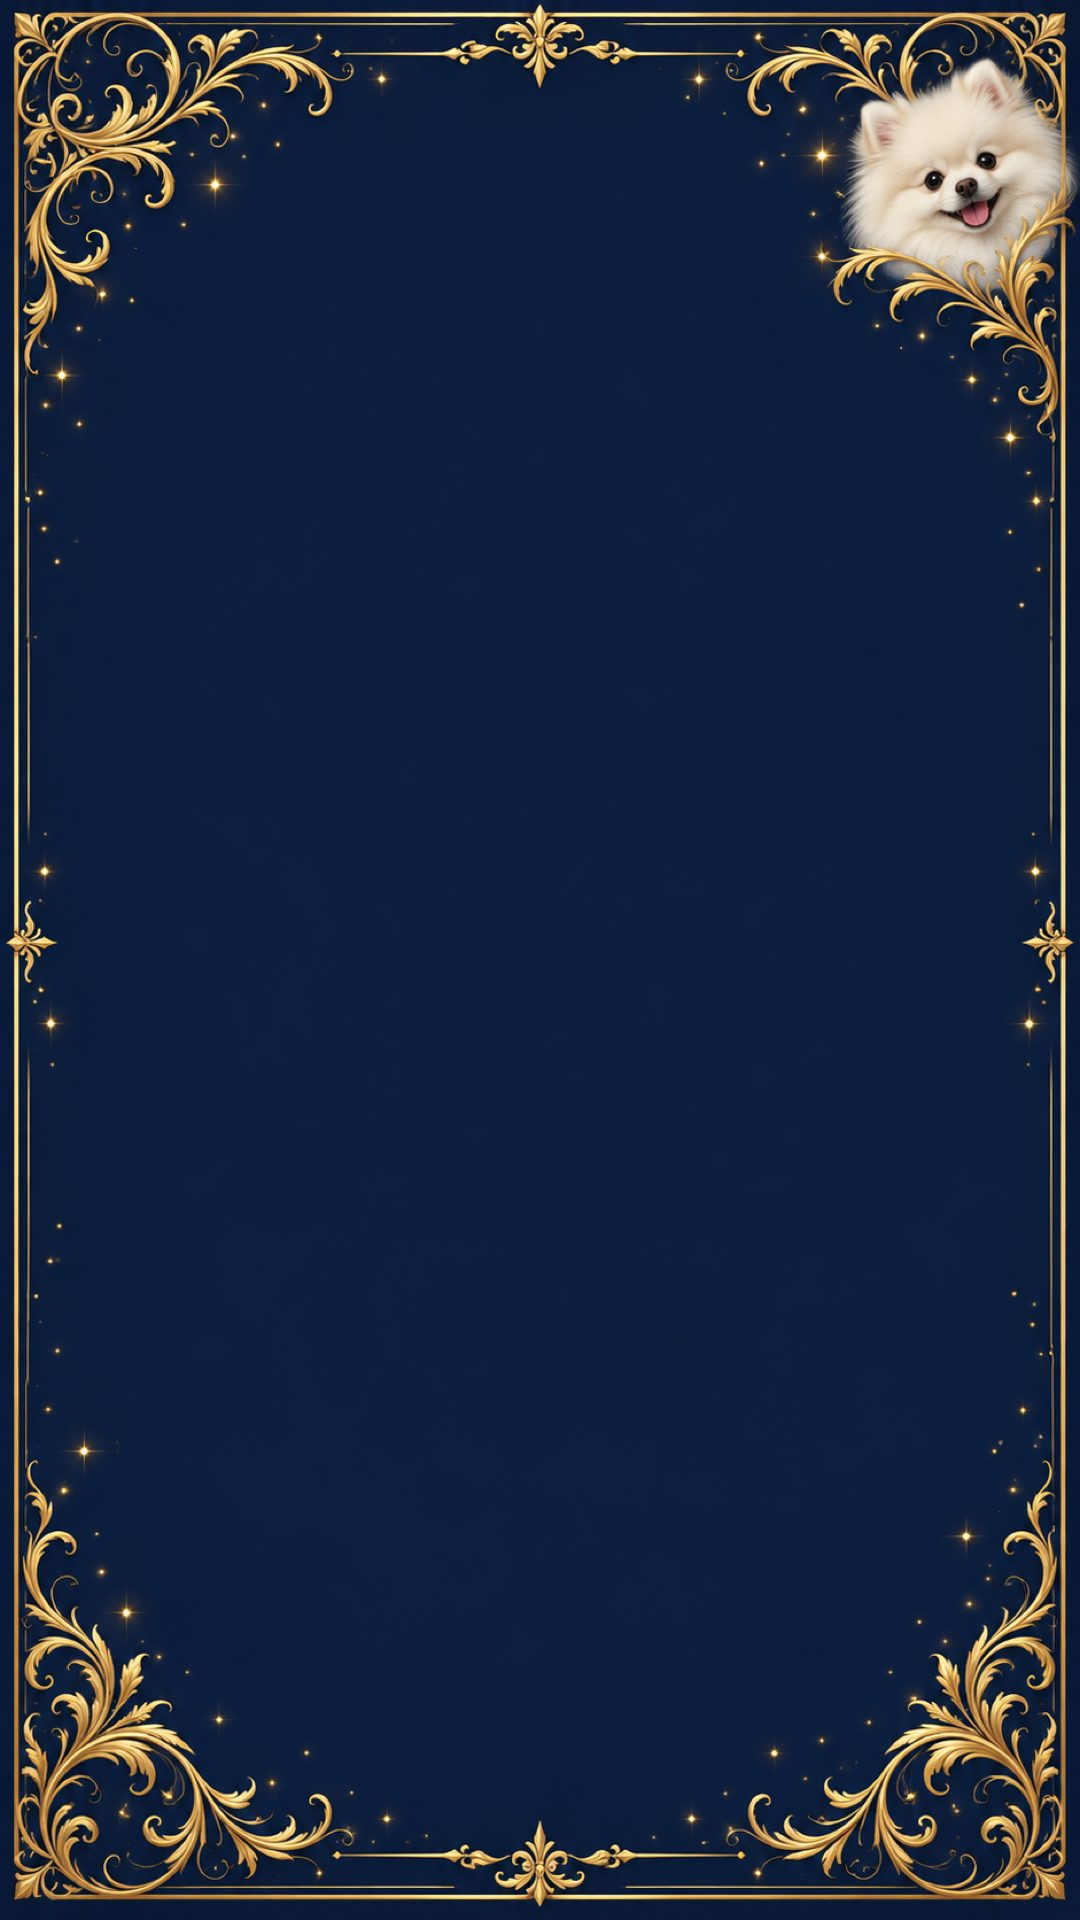
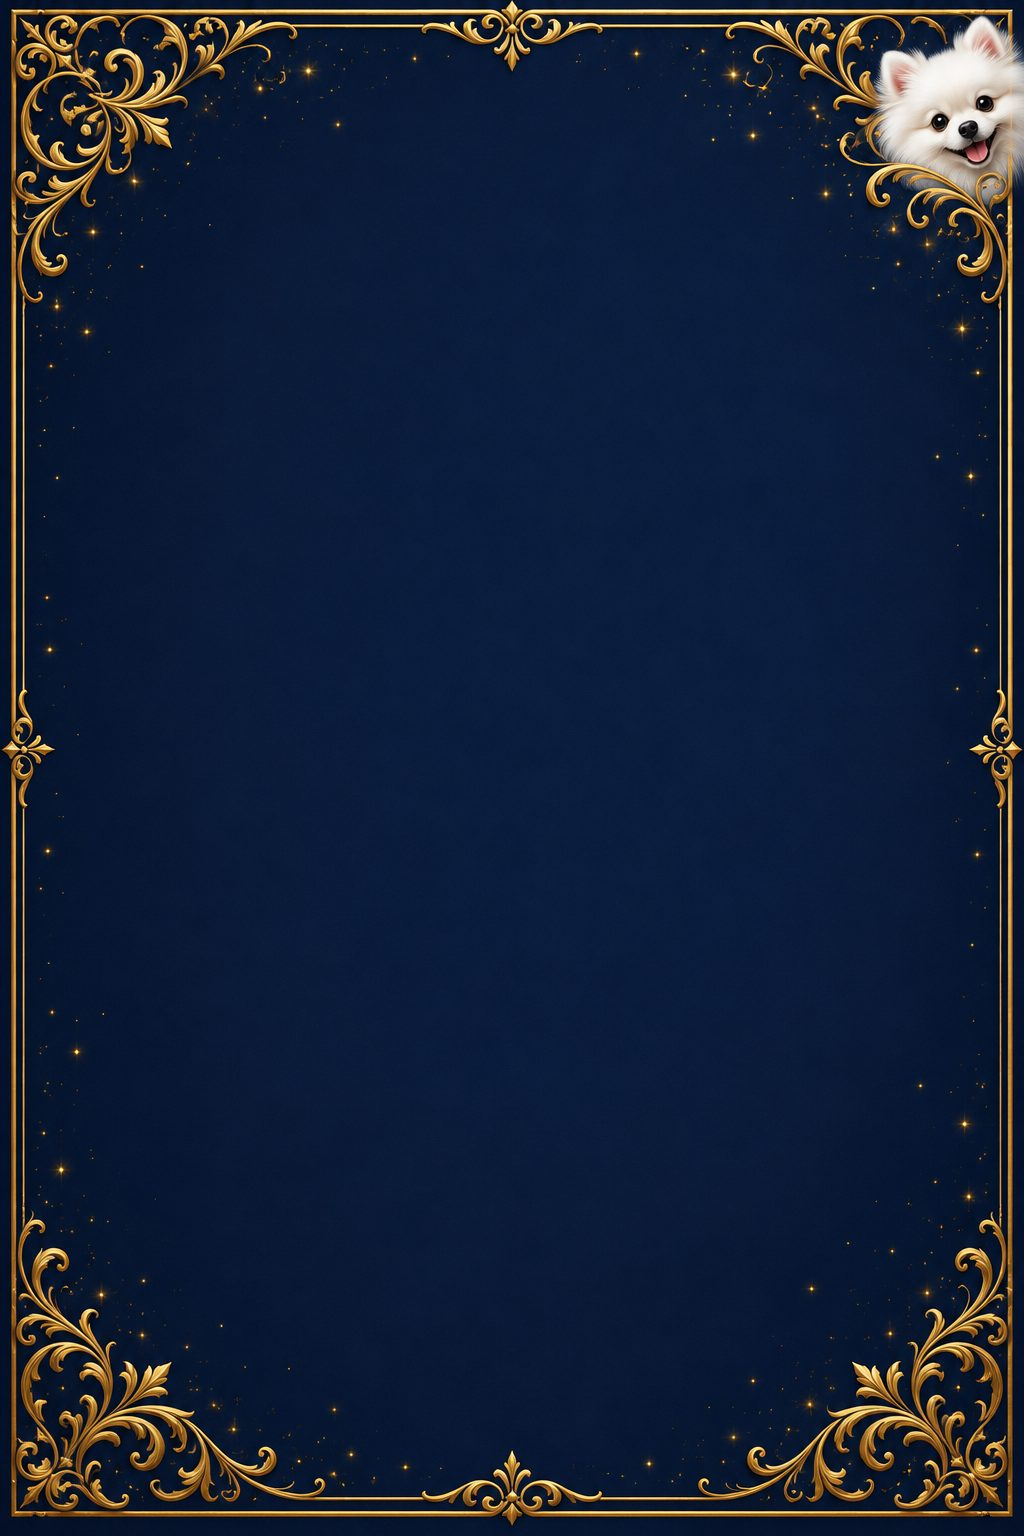
鑑定書を1024x1536に、発行日と署名をやめて両方の画像に「のりぴの」を入れた

Changed region(s): [[0.0, 0.0, 1.0, 1.0]]

diff --git a/index.html b/index.html
@@ -495,6 +495,7 @@ function drawShare(r, p, done, fail){
       c.beginPath(); c.strokeStyle = col; c.lineWidth = w || 1; c.moveTo(x1, y1); c.lineTo(x2, y2); c.stroke();
     }
     /* 見出し */
+    ctrSp("のりぴの", 196, "bold 22px " + GOT, GOLD, 6);
     ctr("引き寄せ四柱推命", 236, "44px " + MIN, NAVY);
     var bt = "金脈編", bfs = 28, bh2 = 50, byy = 304;
     c.font = bfs + "px " + MIN;
@@ -572,7 +573,7 @@ function drawShare(r, p, done, fail){
     c.drawImage(im[1], 236, 1256, 168, 168);
     c.strokeStyle = GOLD2; c.lineWidth = 2; rr(230, 1250, 180, 180, 8); c.stroke();
     c.font = "bold 29px " + GOT; c.fillStyle = NAVY; c.fillText("あなたも診断してみる", 442, 1286);
-    c.font = "20px " + GOT; c.fillStyle = "#7c7060"; c.fillText("引き寄せ四柱推命 金脈編", 442, 1332);
+    c.font = "20px " + GOT; c.fillStyle = "#7c7060"; c.fillText("のりぴの 引き寄せ四柱推命 金脈編", 442, 1332);
     line(442, 1372, 772, 1372, GOLD2, 1);
     c.font = "18px " + GOT; c.fillStyle = GOLD; c.fillText("無料・生年月日だけで診断できます", 442, 1382);
     done(cv.toDataURL("image/png"));
@@ -610,7 +611,7 @@ function wrapKu(c, txt, mw){
 }
 function drawKantei(r, p, done, fail){
   Promise.all([loadImg("kantei_bg.jpg"), loadImg("share_qr.png")]).then(function(im){
-    var W = 1080, H = 1920, CX = 540;
+    var W = 1024, H = 1536, CX = 512;
     var cv = document.createElement("canvas"); cv.width = W; cv.height = H;
     var c = cv.getContext("2d");
     c.drawImage(im[0], 0, 0, W, H);
@@ -636,100 +637,91 @@ function drawKantei(r, p, done, fail){
     var now0 = sd.stages[gi].split("｜")[0];
 
     /* 鑑定書の見出し */
-    ctrSp("引き寄せ四柱推命", 112, "24px " + GOT, GOLD, 7);
-    line(390, 156, 690, 156, GOLD2, 1);
-    ctr("金 脈 鑑 定 書", 182, "64px " + MIN, GOLD);
-    line(390, 282, 690, 282, GOLD2, 1);
+    ctrSp("のりぴの 引き寄せ四柱推命", 96, "22px " + GOT, GOLD, 6);
+    line(362, 138, 662, 138, GOLD2, 1);
+    ctr("金 脈 鑑 定 書", 160, "56px " + MIN, GOLD);
+    line(362, 268, 662, 268, GOLD2, 1);
 
     /* タイプ */
-    ctrSp("あなたの金脈タイプ", 312, "bold 23px " + GOT, GOLD2, 4);
-    ctr(se.label, 350, "108px " + MIN, CREAM);
-    ctrSp(sd.sub, 486, "bold 32px " + GOT, GOLD, 3);
+    ctrSp("あなたの金脈タイプ", 292, "bold 21px " + GOT, GOLD2, 4);
+    ctr(se.label, 326, "92px " + MIN, CREAM);
+    ctrSp(sd.sub, 444, "bold 28px " + GOT, GOLD, 3);
 
     /* 4タイプの解説 */
-    c.font = "27px " + GOT;
-    var yy = 552, tl = D.tlong[se.label];
+    c.font = "24px " + GOT;
+    var yy = 500, tl = D.tlong[se.label];
     tl.forEach(function(t){
-      wrapKu(c, t, 820).forEach(function(ln){ ctr(ln, yy, "27px " + GOT, CREAM); yy += 42; });
+      wrapKu(c, t, 800).forEach(function(ln){ ctr(ln, yy, "24px " + GOT, CREAM); yy += 36; });
     });
 
     /* 割合バー */
-    var BY = yy + 26, q = 100 - p;
-    c.font = "bold 24px " + GOT; c.fillStyle = PURPLE;
-    c.fillText("逆算設計型 " + p + "%", 150, BY);
+    var BY = yy + 20, q = 100 - p;
+    c.font = "bold 22px " + GOT; c.fillStyle = PURPLE;
+    c.fillText("逆算設計型 " + p + "%", 136, BY);
     c.fillStyle = PINK;
     var rt = "臨機応変型 " + q + "%";
-    c.fillText(rt, 930 - c.measureText(rt).width, BY);
-    c.fillStyle = PINK; rr(150, BY + 52, 780, 22, 11); c.fill();
-    var cut = Math.round(780 * p / 100);
-    if (cut > 22){ c.fillStyle = PURPLE; rr(150, BY + 52, cut, 22, 11); c.fill(); }
+    c.fillText(rt, 888 - c.measureText(rt).width, BY);
+    c.fillStyle = PINK; rr(136, BY + 44, 752, 20, 10); c.fill();
+    var cut = Math.round(752 * p / 100);
+    if (cut > 20){ c.fillStyle = PURPLE; rr(136, BY + 44, cut, 20, 10); c.fill(); }
 
     /* 3語 */
-    var pw = 232, gap = 24, ph = 56, py = BY + 112, px0 = CX - (pw * 3 + gap * 2) / 2;
+    var pw = 216, gap = 20, ph = 50, py = BY + 96, px0 = CX - (pw * 3 + gap * 2) / 2;
     sd.stages.forEach(function(st, i){
       var t = st.split("｜")[0], x = px0 + i * (pw + gap);
       if (i === gi){
         c.fillStyle = GOLD; rr(x, py, pw, ph, ph / 2); c.fill();
-        c.font = "bold 27px " + GOT; c.fillStyle = NAVY;
+        c.font = "bold 25px " + GOT; c.fillStyle = NAVY;
       } else {
         c.strokeStyle = GOLD2; c.lineWidth = 2; rr(x, py, pw, ph, ph / 2); c.stroke();
-        c.font = "27px " + GOT; c.fillStyle = GOLD;
+        c.font = "25px " + GOT; c.fillStyle = GOLD;
       }
-      c.fillText(t, x + (pw - c.measureText(t).width) / 2, py + (ph - 36) / 2);
+      c.fillText(t, x + (pw - c.measureText(t).width) / 2, py + (ph - 33) / 2);
     });
 
     /* 「○○」とは（アイボリーの紙） */
-    var TOP = py + ph + 36, PW = 860, PX = CX - PW / 2, IW = PW - 88;
+    var TOP = py + ph + 30, PW = 824, PX = CX - PW / 2, IW = PW - 80;
     var sl = D.slong[r.month], packed = [];
-    c.font = "27px " + GOT;
+    c.font = "24px " + GOT;
     sl.forEach(function(t){ packed.push(wrapKu(c, t, IW)); });
     var nL = 0; packed.forEach(function(a){ nL += a.length; });
-    var PH = 64 + nL * 44 + 10 * (packed.length - 1) + 26;
+    var PH = 56 + nL * 38 + 8 * (packed.length - 1) + 22;
     c.fillStyle = CREAM; rr(PX, TOP, PW, PH, 20); c.fill();
     c.strokeStyle = GOLD2; c.lineWidth = 2; rr(PX, TOP, PW, PH, 20); c.stroke();
-    ctrSp("「" + now0 + "」とは", TOP + 24, "bold 26px " + GOT, LAV, 3);
-    yy = TOP + 72;
+    ctrSp("「" + now0 + "」とは", TOP + 20, "bold 24px " + GOT, LAV, 3);
+    yy = TOP + 62;
     packed.forEach(function(a){
-      a.forEach(function(ln){ ctr(ln, yy, "27px " + GOT, INK); yy += 44; });
-      yy += 10;
+      a.forEach(function(ln){ ctr(ln, yy, "24px " + GOT, INK); yy += 38; });
+      yy += 8;
     });
 
     /* お金の流れ（紺の額に二重罫） */
     var txt = shimeText(r, p);
-    c.font = "40px " + MIN;
-    var ls = wrapKu(c, txt, 720), lh = 60;
-    var FY = TOP + PH + 52, FH = 56 + ls.length * lh + 34;
+    c.font = "34px " + MIN;
+    var ls = wrapKu(c, txt, 680), lh = 50;
+    var FY = TOP + PH + 44, FH = 48 + ls.length * lh + 28;
     c.fillStyle = "#0e1b34"; rr(PX, FY, PW, FH, 18); c.fill();
     c.strokeStyle = GOLD; c.lineWidth = 3; rr(PX, FY, PW, FH, 18); c.stroke();
     c.strokeStyle = GOLD2; c.lineWidth = 1; rr(PX + 10, FY + 10, PW - 20, FH - 20, 12); c.stroke();
     var lab = "あなたのお金の流れ", lsp = 5;
-    c.font = "bold 21px " + GOT;
+    c.font = "bold 19px " + GOT;
     var lw = 0, k; for (k = 0; k < lab.length; k++) lw += c.measureText(lab[k]).width + lsp;
-    lw = lw - lsp + 56;
-    c.fillStyle = GOLD; rr(CX - lw / 2, FY - 21, lw, 42, 21); c.fill();
-    ctrSp(lab, FY - 9, "bold 21px " + GOT, "#162440", lsp);
-    yy = FY + 56;
-    ls.forEach(function(t){ ctr(t, yy, "40px " + MIN, CREAM); yy += lh; });
-
-    /* 発行日と署名 */
-    var SY = FY + FH + 44, dt = new Date();
-    c.font = "21px " + GOT; c.fillStyle = GOLD2;
-    c.fillText(dt.getFullYear() + "年" + (dt.getMonth() + 1) + "月" + dt.getDate() + "日 発行", 150, SY);
-    c.font = "32px " + MIN; c.fillStyle = GOLD;
-    var sg = "のりぴ";
-    c.fillText(sg, 930 - c.measureText(sg).width, SY - 8);
-    line(790, SY + 34, 930, SY + 34, GOLD2, 1);
+    lw = lw - lsp + 52;
+    c.fillStyle = GOLD; rr(CX - lw / 2, FY - 19, lw, 38, 19); c.fill();
+    ctrSp(lab, FY - 8, "bold 19px " + GOT, "#162440", lsp);
+    yy = FY + 48;
+    ls.forEach(function(t){ ctr(t, yy, "34px " + MIN, CREAM); yy += lh; });
 
     /* QR */
-    var QY = SY + 70;
-    c.drawImage(im[1], 210, QY, 142, 142);
-    c.strokeStyle = GOLD2; c.lineWidth = 2; rr(204, QY - 6, 154, 154, 8); c.stroke();
-    c.font = "bold 26px " + GOT; c.fillStyle = CREAM;
-    c.fillText("あなたも診断してみる", 392, QY + 18);
-    c.font = "18px " + GOT; c.fillStyle = GOLD2;
-    c.fillText("引き寄せ四柱推命 金脈編", 392, QY + 60);
-    line(392, QY + 96, 740, QY + 96, GOLD2, 1);
-    c.fillText("無料・生年月日だけで診断できます", 392, QY + 106);
+    var QY = FY + FH + 46;
+    c.drawImage(im[1], 212, QY, 132, 132);
+    c.strokeStyle = GOLD2; c.lineWidth = 2; rr(206, QY - 6, 144, 144, 8); c.stroke();
+    c.font = "bold 25px " + GOT; c.fillStyle = CREAM;
+    c.fillText("あなたも診断してみる", 382, QY + 14);
+    c.font = "17px " + GOT; c.fillStyle = GOLD2;
+    c.fillText("のりぴの 引き寄せ四柱推命 金脈編", 382, QY + 54);
+    line(382, QY + 88, 716, QY + 88, GOLD2, 1);
+    c.fillText("無料・生年月日だけで診断できます", 382, QY + 98);
 
     done(cv.toDataURL("image/png"));
   }).catch(fail);

diff --git a/build.py b/build.py
@@ -397,6 +397,7 @@ function drawShare(r, p, done, fail){
       c.beginPath(); c.strokeStyle = col; c.lineWidth = w || 1; c.moveTo(x1, y1); c.lineTo(x2, y2); c.stroke();
     }
     /* 見出し */
+    ctrSp("のりぴの", 196, "bold 22px " + GOT, GOLD, 6);
     ctr("引き寄せ四柱推命", 236, "44px " + MIN, NAVY);
     var bt = "金脈編", bfs = 28, bh2 = 50, byy = 304;
     c.font = bfs + "px " + MIN;
@@ -474,7 +475,7 @@ function drawShare(r, p, done, fail){
     c.drawImage(im[1], 236, 1256, 168, 168);
     c.strokeStyle = GOLD2; c.lineWidth = 2; rr(230, 1250, 180, 180, 8); c.stroke();
     c.font = "bold 29px " + GOT; c.fillStyle = NAVY; c.fillText("あなたも診断してみる", 442, 1286);
-    c.font = "20px " + GOT; c.fillStyle = "#7c7060"; c.fillText("引き寄せ四柱推命 金脈編", 442, 1332);
+    c.font = "20px " + GOT; c.fillStyle = "#7c7060"; c.fillText("のりぴの 引き寄せ四柱推命 金脈編", 442, 1332);
     line(442, 1372, 772, 1372, GOLD2, 1);
     c.font = "18px " + GOT; c.fillStyle = GOLD; c.fillText("無料・生年月日だけで診断できます", 442, 1382);
     done(cv.toDataURL("image/png"));
@@ -512,7 +513,7 @@ function wrapKu(c, txt, mw){
 }
 function drawKantei(r, p, done, fail){
   Promise.all([loadImg("kantei_bg.jpg"), loadImg("share_qr.png")]).then(function(im){
-    var W = 1080, H = 1920, CX = 540;
+    var W = 1024, H = 1536, CX = 512;
     var cv = document.createElement("canvas"); cv.width = W; cv.height = H;
     var c = cv.getContext("2d");
     c.drawImage(im[0], 0, 0, W, H);
@@ -538,100 +539,91 @@ function drawKantei(r, p, done, fail){
     var now0 = sd.stages[gi].split("｜")[0];
 
     /* 鑑定書の見出し */
-    ctrSp("引き寄せ四柱推命", 112, "24px " + GOT, GOLD, 7);
-    line(390, 156, 690, 156, GOLD2, 1);
-    ctr("金 脈 鑑 定 書", 182, "64px " + MIN, GOLD);
-    line(390, 282, 690, 282, GOLD2, 1);
+    ctrSp("のりぴの 引き寄せ四柱推命", 96, "22px " + GOT, GOLD, 6);
+    line(362, 138, 662, 138, GOLD2, 1);
+    ctr("金 脈 鑑 定 書", 160, "56px " + MIN, GOLD);
+    line(362, 268, 662, 268, GOLD2, 1);
 
     /* タイプ */
-    ctrSp("あなたの金脈タイプ", 312, "bold 23px " + GOT, GOLD2, 4);
-    ctr(se.label, 350, "108px " + MIN, CREAM);
-    ctrSp(sd.sub, 486, "bold 32px " + GOT, GOLD, 3);
+    ctrSp("あなたの金脈タイプ", 292, "bold 21px " + GOT, GOLD2, 4);
+    ctr(se.label, 326, "92px " + MIN, CREAM);
+    ctrSp(sd.sub, 444, "bold 28px " + GOT, GOLD, 3);
 
     /* 4タイプの解説 */
-    c.font = "27px " + GOT;
-    var yy = 552, tl = D.tlong[se.label];
+    c.font = "24px " + GOT;
+    var yy = 500, tl = D.tlong[se.label];
     tl.forEach(function(t){
-      wrapKu(c, t, 820).forEach(function(ln){ ctr(ln, yy, "27px " + GOT, CREAM); yy += 42; });
+      wrapKu(c, t, 800).forEach(function(ln){ ctr(ln, yy, "24px " + GOT, CREAM); yy += 36; });
     });
 
     /* 割合バー */
-    var BY = yy + 26, q = 100 - p;
-    c.font = "bold 24px " + GOT; c.fillStyle = PURPLE;
-    c.fillText("逆算設計型 " + p + "%", 150, BY);
+    var BY = yy + 20, q = 100 - p;
+    c.font = "bold 22px " + GOT; c.fillStyle = PURPLE;
+    c.fillText("逆算設計型 " + p + "%", 136, BY);
     c.fillStyle = PINK;
     var rt = "臨機応変型 " + q + "%";
-    c.fillText(rt, 930 - c.measureText(rt).width, BY);
-    c.fillStyle = PINK; rr(150, BY + 52, 780, 22, 11); c.fill();
-    var cut = Math.round(780 * p / 100);
-    if (cut > 22){ c.fillStyle = PURPLE; rr(150, BY + 52, cut, 22, 11); c.fill(); }
+    c.fillText(rt, 888 - c.measureText(rt).width, BY);
+    c.fillStyle = PINK; rr(136, BY + 44, 752, 20, 10); c.fill();
+    var cut = Math.round(752 * p / 100);
+    if (cut > 20){ c.fillStyle = PURPLE; rr(136, BY + 44, cut, 20, 10); c.fill(); }
 
     /* 3語 */
-    var pw = 232, gap = 24, ph = 56, py = BY + 112, px0 = CX - (pw * 3 + gap * 2) / 2;
+    var pw = 216, gap = 20, ph = 50, py = BY + 96, px0 = CX - (pw * 3 + gap * 2) / 2;
     sd.stages.forEach(function(st, i){
       var t = st.split("｜")[0], x = px0 + i * (pw + gap);
       if (i === gi){
         c.fillStyle = GOLD; rr(x, py, pw, ph, ph / 2); c.fill();
-        c.font = "bold 27px " + GOT; c.fillStyle = NAVY;
+        c.font = "bold 25px " + GOT; c.fillStyle = NAVY;
       } else {
         c.strokeStyle = GOLD2; c.lineWidth = 2; rr(x, py, pw, ph, ph / 2); c.stroke();
-        c.font = "27px " + GOT; c.fillStyle = GOLD;
+        c.font = "25px " + GOT; c.fillStyle = GOLD;
       }
-      c.fillText(t, x + (pw - c.measureText(t).width) / 2, py + (ph - 36) / 2);
+      c.fillText(t, x + (pw - c.measureText(t).width) / 2, py + (ph - 33) / 2);
     });
 
     /* 「○○」とは（アイボリーの紙） */
-    var TOP = py + ph + 36, PW = 860, PX = CX - PW / 2, IW = PW - 88;
+    var TOP = py + ph + 30, PW = 824, PX = CX - PW / 2, IW = PW - 80;
     var sl = D.slong[r.month], packed = [];
-    c.font = "27px " + GOT;
+    c.font = "24px " + GOT;
     sl.forEach(function(t){ packed.push(wrapKu(c, t, IW)); });
     var nL = 0; packed.forEach(function(a){ nL += a.length; });
-    var PH = 64 + nL * 44 + 10 * (packed.length - 1) + 26;
+    var PH = 56 + nL * 38 + 8 * (packed.length - 1) + 22;
     c.fillStyle = CREAM; rr(PX, TOP, PW, PH, 20); c.fill();
     c.strokeStyle = GOLD2; c.lineWidth = 2; rr(PX, TOP, PW, PH, 20); c.stroke();
-    ctrSp("「" + now0 + "」とは", TOP + 24, "bold 26px " + GOT, LAV, 3);
-    yy = TOP + 72;
+    ctrSp("「" + now0 + "」とは", TOP + 20, "bold 24px " + GOT, LAV, 3);
+    yy = TOP + 62;
     packed.forEach(function(a){
-      a.forEach(function(ln){ ctr(ln, yy, "27px " + GOT, INK); yy += 44; });
-      yy += 10;
+      a.forEach(function(ln){ ctr(ln, yy, "24px " + GOT, INK); yy += 38; });
+      yy += 8;
     });
 
     /* お金の流れ（紺の額に二重罫） */
     var txt = shimeText(r, p);
-    c.font = "40px " + MIN;
-    var ls = wrapKu(c, txt, 720), lh = 60;
-    var FY = TOP + PH + 52, FH = 56 + ls.length * lh + 34;
+    c.font = "34px " + MIN;
+    var ls = wrapKu(c, txt, 680), lh = 50;
+    var FY = TOP + PH + 44, FH = 48 + ls.length * lh + 28;
     c.fillStyle = "#0e1b34"; rr(PX, FY, PW, FH, 18); c.fill();
     c.strokeStyle = GOLD; c.lineWidth = 3; rr(PX, FY, PW, FH, 18); c.stroke();
     c.strokeStyle = GOLD2; c.lineWidth = 1; rr(PX + 10, FY + 10, PW - 20, FH - 20, 12); c.stroke();
     var lab = "あなたのお金の流れ", lsp = 5;
-    c.font = "bold 21px " + GOT;
+    c.font = "bold 19px " + GOT;
     var lw = 0, k; for (k = 0; k < lab.length; k++) lw += c.measureText(lab[k]).width + lsp;
-    lw = lw - lsp + 56;
-    c.fillStyle = GOLD; rr(CX - lw / 2, FY - 21, lw, 42, 21); c.fill();
-    ctrSp(lab, FY - 9, "bold 21px " + GOT, "#162440", lsp);
-    yy = FY + 56;
-    ls.forEach(function(t){ ctr(t, yy, "40px " + MIN, CREAM); yy += lh; });
-
-    /* 発行日と署名 */
-    var SY = FY + FH + 44, dt = new Date();
-    c.font = "21px " + GOT; c.fillStyle = GOLD2;
-    c.fillText(dt.getFullYear() + "年" + (dt.getMonth() + 1) + "月" + dt.getDate() + "日 発行", 150, SY);
-    c.font = "32px " + MIN; c.fillStyle = GOLD;
-    var sg = "のりぴ";
-    c.fillText(sg, 930 - c.measureText(sg).width, SY - 8);
-    line(790, SY + 34, 930, SY + 34, GOLD2, 1);
+    lw = lw - lsp + 52;
+    c.fillStyle = GOLD; rr(CX - lw / 2, FY - 19, lw, 38, 19); c.fill();
+    ctrSp(lab, FY - 8, "bold 19px " + GOT, "#162440", lsp);
+    yy = FY + 48;
+    ls.forEach(function(t){ ctr(t, yy, "34px " + MIN, CREAM); yy += lh; });
 
     /* QR */
-    var QY = SY + 70;
-    c.drawImage(im[1], 210, QY, 142, 142);
-    c.strokeStyle = GOLD2; c.lineWidth = 2; rr(204, QY - 6, 154, 154, 8); c.stroke();
-    c.font = "bold 26px " + GOT; c.fillStyle = CREAM;
-    c.fillText("あなたも診断してみる", 392, QY + 18);
-    c.font = "18px " + GOT; c.fillStyle = GOLD2;
-    c.fillText("引き寄せ四柱推命 金脈編", 392, QY + 60);
-    line(392, QY + 96, 740, QY + 96, GOLD2, 1);
-    c.fillText("無料・生年月日だけで診断できます", 392, QY + 106);
+    var QY = FY + FH + 46;
+    c.drawImage(im[1], 212, QY, 132, 132);
+    c.strokeStyle = GOLD2; c.lineWidth = 2; rr(206, QY - 6, 144, 144, 8); c.stroke();
+    c.font = "bold 25px " + GOT; c.fillStyle = CREAM;
+    c.fillText("あなたも診断してみる", 382, QY + 14);
+    c.font = "17px " + GOT; c.fillStyle = GOLD2;
+    c.fillText("のりぴの 引き寄せ四柱推命 金脈編", 382, QY + 54);
+    line(382, QY + 88, 716, QY + 88, GOLD2, 1);
+    c.fillText("無料・生年月日だけで診断できます", 382, QY + 98);
 
     done(cv.toDataURL("image/png"));
   }).catch(fail);
